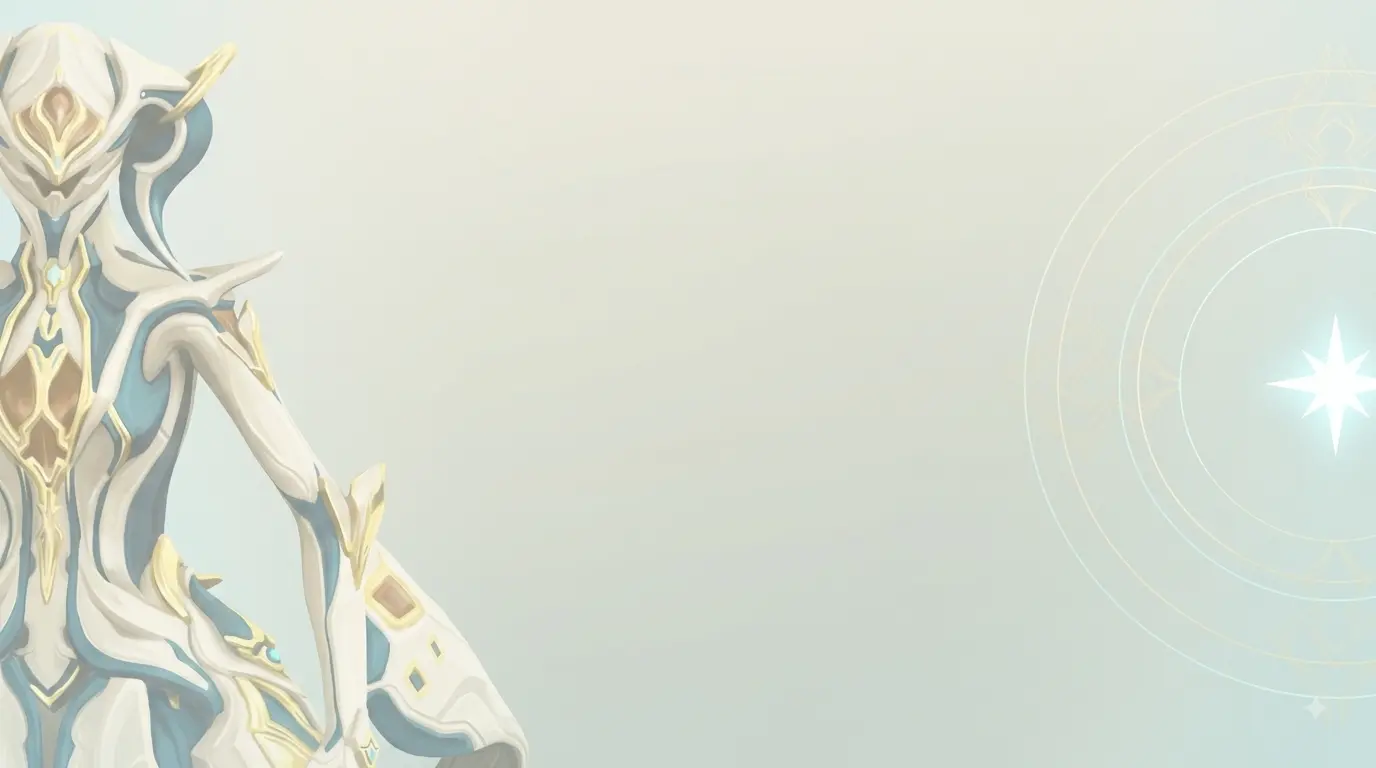
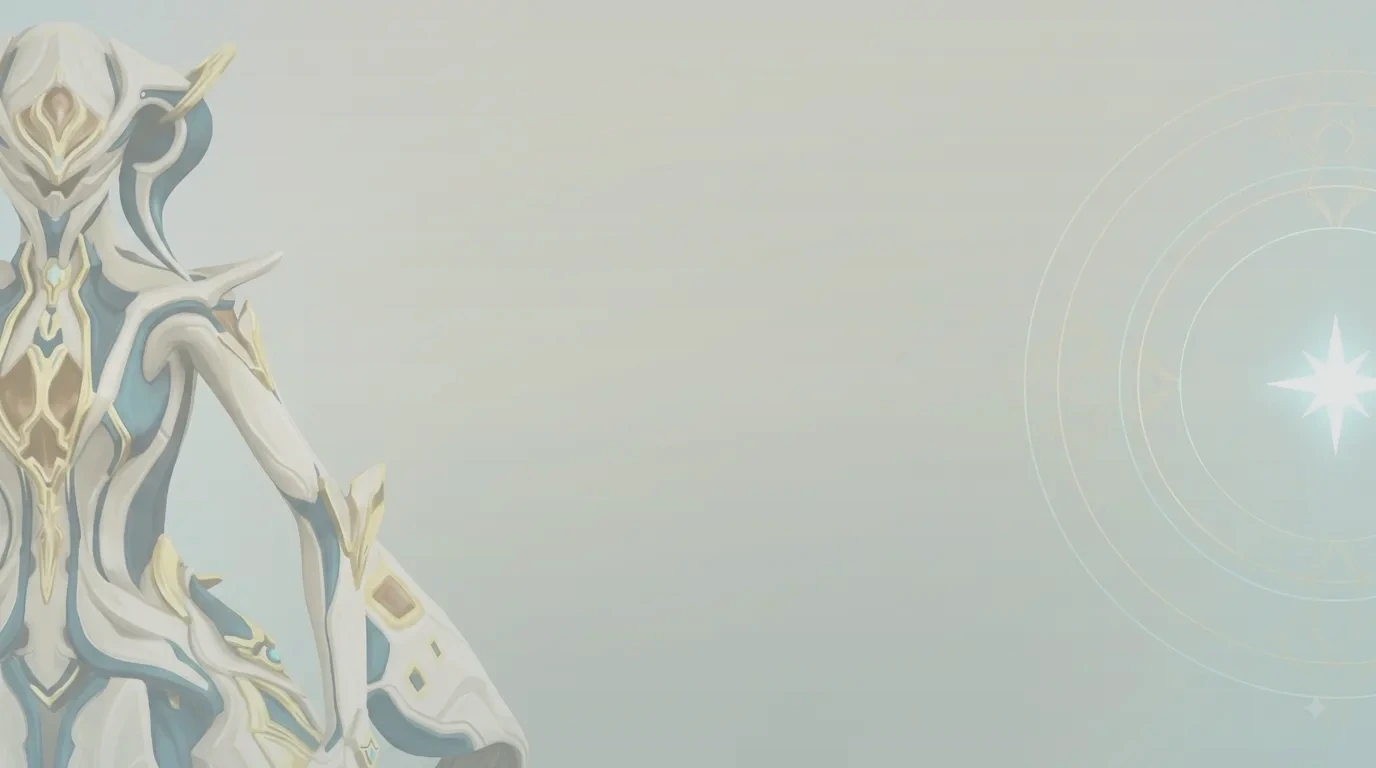
061

diff --git a/src/styles.css b/src/styles.css
@@ -15,8 +15,8 @@ button { cursor: pointer; }
 .background-layer, .background-shade { position: fixed; inset: 0; pointer-events: none; }
 .background-layer { z-index: -3; background-image: url('/assets/bg-dark.webp'); background-size: cover; background-position: center; background-repeat: no-repeat; }
 .background-shade { z-index: -2; background: linear-gradient(90deg, rgba(3,8,14,.10), rgba(3,8,14,.54) 24%, rgba(3,8,14,.62) 76%, rgba(3,8,14,.12)), linear-gradient(180deg, rgba(2,7,12,.10), rgba(2,7,12,.34)); }
-html[data-theme="light"] .background-layer { background-image: url('/assets/bg-light.webp'); }
-html[data-theme="light"] .background-shade { background: linear-gradient(90deg, rgba(95,108,112,.16), rgba(164,175,176,.36) 22%, rgba(164,175,176,.40) 78%, rgba(95,108,112,.14)), linear-gradient(180deg, rgba(122,134,136,.12), rgba(158,170,171,.24)); }
+html[data-theme="light"] .background-layer { background-image: url('/assets/bg-light.webp'); filter: saturate(.92) brightness(.95) contrast(1.02); }
+html[data-theme="light"] .background-shade { background: linear-gradient(90deg, rgba(82,96,100,.24), rgba(132,146,150,.40) 22%, rgba(140,154,158,.44) 78%, rgba(82,96,100,.22)), linear-gradient(180deg, rgba(104,118,123,.16), rgba(140,153,157,.28)); }
 .app-shell { width: min(1540px, calc(100% - 40px)); margin: 0 auto; padding: 20px 0 28px; }
 .topbar { display:flex; justify-content:space-between; align-items:flex-start; gap:24px; margin-bottom:18px; }
 .brand-plate { width: min(405px, 52vw); height: 82px; display:flex; align-items:center; padding: 4px 25px 4px 8px; background: rgba(4,10,17,.91); border: 1px solid rgba(72,119,151,.24); clip-path: polygon(0 0, calc(100% - 30px) 0, 100% 50%, calc(100% - 30px) 100%, 0 100%); box-shadow: 0 12px 30px rgba(0,0,0,.18); }
@@ -373,9 +373,9 @@ html[data-theme="light"] .signal-card span {
 }
 
 html[data-theme="light"] .filters input {
-  color: #26343f;
-  background: rgba(226,232,233,.94);
-  border-color: #a8b7bd;
+  color: #22323c;
+  background: rgba(213, 221, 223, .96);
+  border-color: #95a9b0;
 }
 
 html[data-theme="light"] .filters input::placeholder {
@@ -387,7 +387,7 @@ html[data-theme="light"] .input-suffix b {
 }
 
 html[data-theme="light"] .results-row strong {
-  color: #273640;
+  color: #20313b;
 }
 
 html[data-theme="light"] th {
@@ -415,7 +415,7 @@ html[data-theme="light"] .price-cell,
 html[data-theme="light"] .price-big,
 html[data-theme="light"] .detail-header h1,
 html[data-theme="light"] .updated-card strong {
-  color: #152630;
+  color: #10232e;
 }
 
 html[data-theme="light"] .potential-badge.muted,
@@ -427,24 +427,24 @@ html[data-theme="light"] .decision.low {
 
 html[data-theme="light"] .chart-shell,
 html[data-theme="light"] .time-tabs {
-  background: rgba(181,194,199,.90);
-  border-color: #9caeb5;
+  background: rgba(171, 185, 190, .92);
+  border-color: #8fa5ad;
 }
 
 html[data-theme="light"] .time-tab {
-  color: #425b69;
+  color: #35505f;
 }
 
 html[data-theme="light"] .grid-line {
-  stroke: #8fa4ad;
+  stroke: #8098a2;
 }
 
 html[data-theme="light"] .axis-label {
-  fill: #425d6c;
+  fill: #355261;
 }
 
 html[data-theme="light"] .legend {
-  color: #435d6b;
+  color: #355261;
 }
 
 @media (max-width: 900px) {
@@ -549,8 +549,8 @@ html[data-theme="light"] .legend {
 
 html[data-theme="light"] .background-shade {
   background:
-    linear-gradient(90deg, rgba(86,104,108,.12), rgba(140,157,159,.28) 22%, rgba(140,157,159,.31) 78%, rgba(86,104,108,.10)),
-    linear-gradient(180deg, rgba(104,122,125,.08), rgba(124,143,145,.18));
+    linear-gradient(90deg, rgba(76, 92, 98, .26), rgba(121, 137, 142, .44) 22%, rgba(128, 145, 149, .48) 78%, rgba(76, 92, 98, .24)),
+    linear-gradient(180deg, rgba(95, 109, 115, .18), rgba(130, 145, 150, .30));
 }
 
 html[data-theme="light"] .brand-plate,
@@ -569,28 +569,29 @@ html[data-theme="light"] .footer-brand img {
 html[data-theme="light"] .panel,
 html[data-theme="light"] .metric-card,
 html[data-theme="light"] .updated-card {
-  background: rgba(188,203,206,.91);
-  border-color: rgba(110,132,138,.72);
+  background: rgba(173, 188, 192, .90);
+  border-color: rgba(94, 115, 123, .72);
+  box-shadow: 0 14px 36px rgba(48, 62, 67, .10);
 }
 
 html[data-theme="light"] th {
-  color: #395360;
-  background: rgba(157,176,181,.96);
-  border-color: #899fa7;
+  color: #314955;
+  background: rgba(145, 164, 170, .96);
+  border-color: #7f969e;
 }
 
 html[data-theme="light"] td {
-  color: #22343d;
-  background: rgba(195,207,210,.94);
-  border-color: #99adb4;
+  color: #1d2f38;
+  background: rgba(183, 197, 201, .94);
+  border-color: #8fa5ad;
 }
 
 html[data-theme="light"] tbody tr:nth-child(even) td {
-  background: rgba(185,200,203,.95);
+  background: rgba(176, 191, 195, .95);
 }
 
 html[data-theme="light"] tbody tr:hover td {
-  background: rgba(170,190,195,.98);
+  background: rgba(160, 180, 186, .98);
 }
 
 html[data-theme="light"] .positive {
@@ -1946,4 +1947,24 @@ html[data-theme="light"] .admin-items-form input { color:#243943; background:#ff
   .info-page-shell { width:min(100% - 20px,1120px); }
   .info-document > header,
   .info-sections section { padding:22px 18px; }
+}
+
+
+html[data-theme="light"] .filters select,
+html[data-theme="light"] .control-button,
+html[data-theme="light"] .custom-picker-button {
+  background: linear-gradient(180deg, rgba(224, 230, 232, .98), rgba(207, 216, 219, .98));
+  border-color: #92a7ae;
+  color: #23343d;
+}
+
+html[data-theme="light"] .filters select:hover,
+html[data-theme="light"] .control-button:hover,
+html[data-theme="light"] .custom-picker-button:hover {
+  border-color: #6f8c97;
+  background: rgba(202, 212, 215, .98);
+}
+
+html[data-theme="light"] .table-panel {
+  background: rgba(170, 184, 188, .90);
 }
